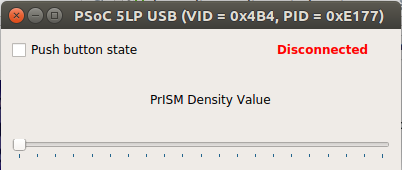
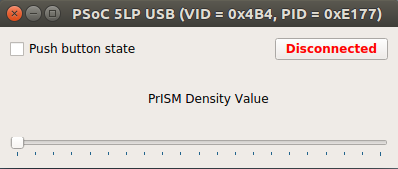
Replacing the state label with a button

Changed region(s): [[0.0, 0.0, 1.0, 1.0], [0.0, 0.2367, 0.3618, 0.355], [0.3618, 0.5325, 0.6935, 0.6509]]

diff --git a/widget.cpp b/widget.cpp
@@ -18,17 +18,48 @@ Widget::Widget(QWidget *parent) :
 {
     ui->setupUi(this);
 
-    /* Setup the contents of the GUI */
+    /********** Setup GUI visual contents **********/
+
+    /*
+     * buttonState Check Button:
+     * this check button let us know the state
+     * of the onboard switch button of the
+     * development kit.
+    */
     ui->buttonState_cB->setText("Push button state");
+
+    /*
+     * scrollBar Label
+     * This is just a label to
+     * display a text, nothing fancy here
+    */
     ui->scrollBar_lbl->setText("PrISM Density Value");
-    ui->state_lbl->setText("Disconnected");
-    ui->state_lbl->setStyleSheet("QLabel {font-weight: bold; color : red}");
+
+    /*
+     * connect Push Button
+     * This button will allow us to
+     * connect and disconnect the USB device to
+     * the application.
+     * Acquire and release in libUSB terms, it will
+     * also display a text, which will be the state
+     * of the device (connected or disconnected) being
+     * the last state the default state
+    */
+    ui->connect_pB->setText("Disconnected");
+    ui->connect_pB->setStyleSheet("QPushButton {font-weight: bold; color : red}");
+
+    /*
+     * density Slider
+     * this slider will let us control the
+     * brightness of the onboard LED of the kit.
+    */
     ui->density_Slider->setMinimum(0);
     ui->density_Slider->setMaximum(100);
     ui->density_Slider->setTickPosition(QSlider::TicksBelow);
     ui->density_Slider->setTickInterval(5);
 
-    /* Connect signals and slots */
+
+    /********** Connect signals and slots **********/
 
     // Sender : Slider
     // Signal : Value changed
